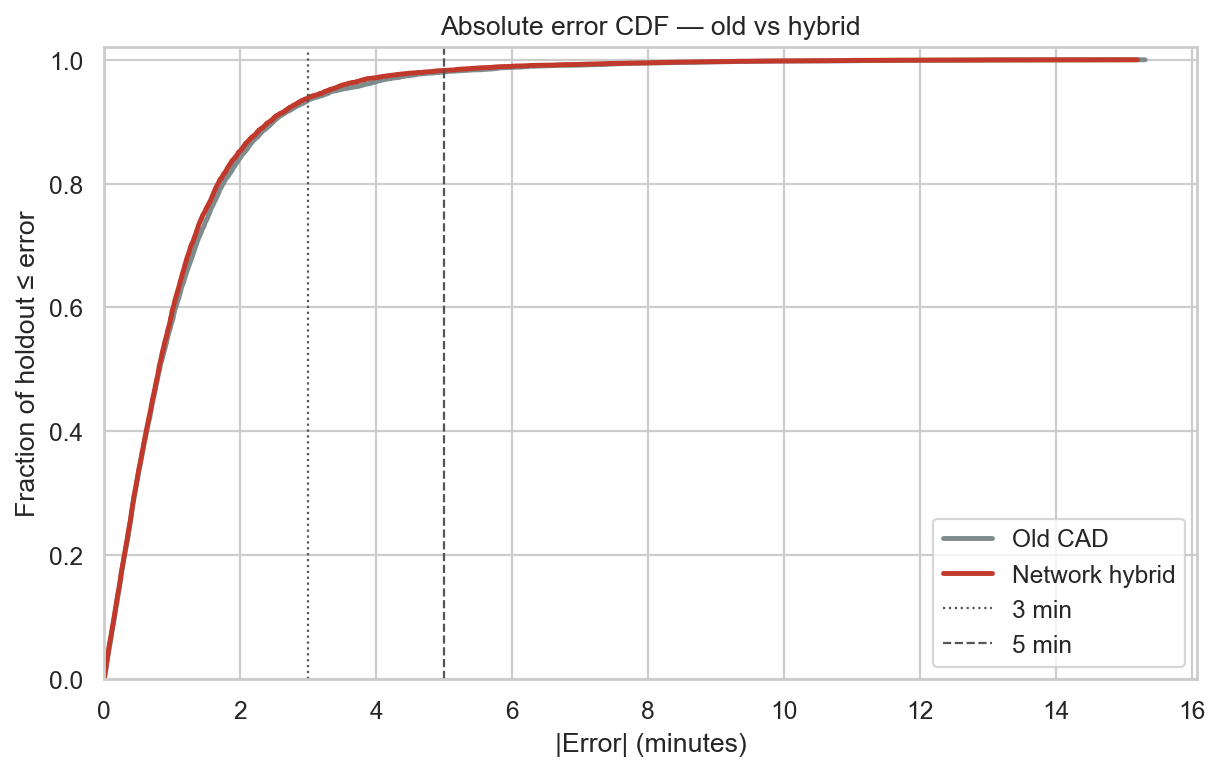
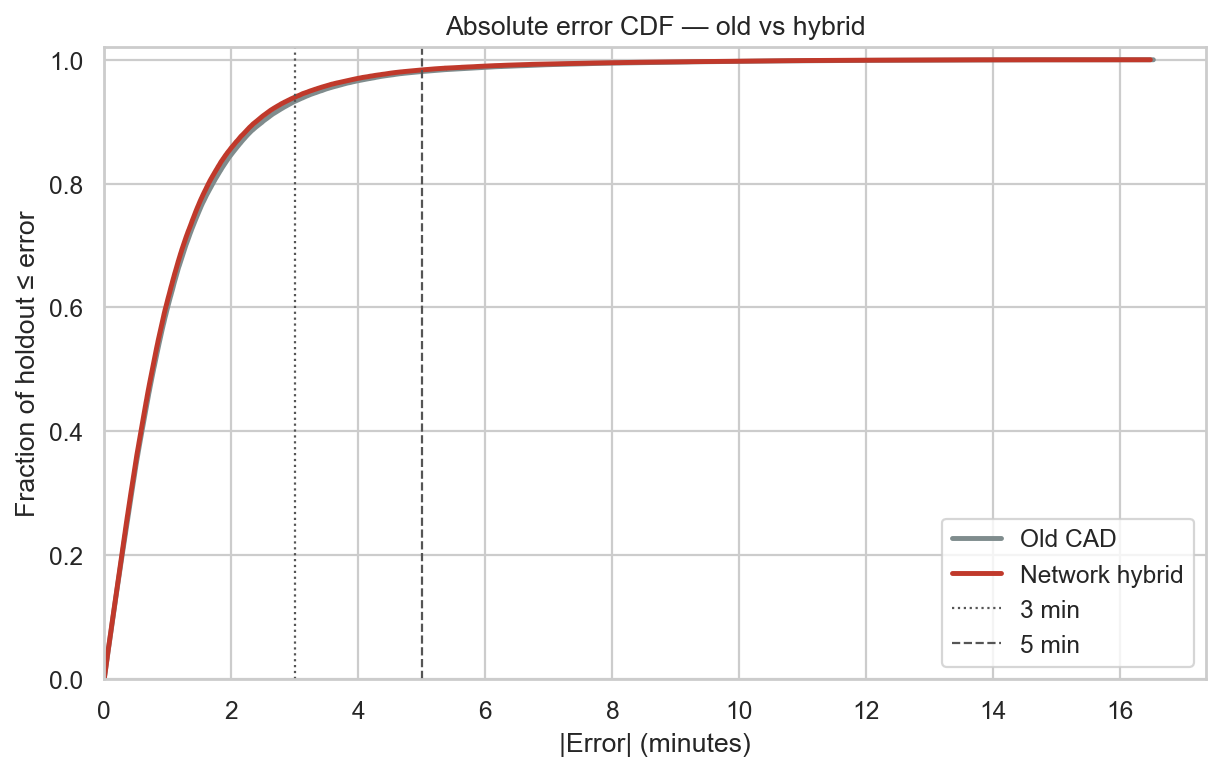
fixing images

diff --git a/scripts/train_travel_time_hybrid.py b/scripts/train_travel_time_hybrid.py
@@ -206,7 +206,10 @@ def main():
     p.add_argument("--data", type=Path, default=ROOT / "data" / "processed" / "travel_time_network.parquet")
     p.add_argument("--out-dir", type=Path, default=ROOT / "data" / "processed" / "models")
     p.add_argument("--figures", type=Path, default=ROOT / "data" / "figures" / "model_eval_hybrid")
-    p.add_argument("--test-frac", type=float, default=0.2)
+    p.add_argument("--test-frac", type=float, default=0.2, help="Used only when --train-end/--test-start unset")
+    p.add_argument("--train-end", type=str, default=None, help="ISO cutoff; rows before this are train/valid")
+    p.add_argument("--test-start", type=str, default=None, help="ISO; rows on/after this are test")
+    p.add_argument("--valid-start", type=str, default=None, help="ISO; default = 1 month before test-start")
     p.add_argument("--seed", type=int, default=42)
     args = p.parse_args()
 
@@ -215,12 +218,30 @@ def main():
     d = d[d["travel_seconds"].between(45, 1200)].reset_index(drop=True)
     d["dest_key"] = d["dest_lat"].round(5).astype(str) + "," + d["dest_lon"].round(5).astype(str)
     d["incident_datetime"] = pd.to_datetime(d["incident_datetime"], errors="coerce")
+    d = d.sort_values("incident_datetime").reset_index(drop=True)
 
-    train, test = chronological_split(d, test_frac=args.test_frac)
-    # tiny valid slice from end of train for early stopping
-    val_n = max(500, int(0.1 * len(train)))
-    valid = train.iloc[-val_n:].reset_index(drop=True)
-    train_fit = train.iloc[:-val_n].reset_index(drop=True)
+    if args.train_end and args.test_start:
+        train_end = pd.Timestamp(args.train_end)
+        test_start = pd.Timestamp(args.test_start)
+        valid_start = pd.Timestamp(args.valid_start) if args.valid_start else (test_start - pd.DateOffset(months=1))
+        train_fit = d[d["incident_datetime"] < valid_start].reset_index(drop=True)
+        valid = d[(d["incident_datetime"] >= valid_start) & (d["incident_datetime"] < test_start)].reset_index(drop=True)
+        test = d[d["incident_datetime"] >= test_start].reset_index(drop=True)
+        if len(valid) < 500:
+            # fall back: last 10% of pre-test as valid
+            pre = d[d["incident_datetime"] < test_start].reset_index(drop=True)
+            val_n = max(500, int(0.1 * len(pre)))
+            train_fit = pre.iloc[:-val_n].reset_index(drop=True)
+            valid = pre.iloc[-val_n:].reset_index(drop=True)
+        print(
+            f"time split: train_fit {len(train_fit):,} | valid {len(valid):,} | "
+            f"test {len(test):,} (from {args.test_start})"
+        )
+    else:
+        train, test = chronological_split(d, test_frac=args.test_frac)
+        val_n = max(500, int(0.1 * len(train)))
+        valid = train.iloc[-val_n:].reset_index(drop=True)
+        train_fit = train.iloc[:-val_n].reset_index(drop=True)
 
     train_p, (valid_p, test_p) = add_priors(train_fit, [valid, test], PRIOR_KEYS)
     # Rebuild priors on full train (fit+valid) for final bag, apply to test

diff --git a/scripts/compare_hybrid_to_cad.py b/scripts/compare_hybrid_to_cad.py
@@ -273,6 +273,9 @@ def main():
     p.add_argument("--data", type=Path, default=ROOT / "data" / "processed" / "travel_time_network.parquet")
     p.add_argument("--out-dir", type=Path, default=ROOT / "data" / "figures" / "model_eval_comparison")
     p.add_argument("--test-frac", type=float, default=0.2)
+    p.add_argument("--train-end", type=str, default=None)
+    p.add_argument("--test-start", type=str, default=None)
+    p.add_argument("--valid-start", type=str, default=None)
     p.add_argument("--seed", type=int, default=42)
     args = p.parse_args()
 
@@ -281,11 +284,25 @@ def main():
     d = d[d["travel_seconds"].between(45, 1200)].reset_index(drop=True)
     d["dest_key"] = d["dest_lat"].round(5).astype(str) + "," + d["dest_lon"].round(5).astype(str)
     d["incident_datetime"] = pd.to_datetime(d["incident_datetime"], errors="coerce")
+    d = d.sort_values("incident_datetime").reset_index(drop=True)
 
-    train, test = chronological_split(d, test_frac=args.test_frac)
-    val_n = max(500, int(0.1 * len(train)))
-    valid = train.iloc[-val_n:].reset_index(drop=True)
-    train_fit = train.iloc[:-val_n].reset_index(drop=True)
+    if args.train_end and args.test_start:
+        test_start = pd.Timestamp(args.test_start)
+        valid_start = pd.Timestamp(args.valid_start) if args.valid_start else (test_start - pd.DateOffset(months=1))
+        train_fit = d[d["incident_datetime"] < valid_start].reset_index(drop=True)
+        valid = d[(d["incident_datetime"] >= valid_start) & (d["incident_datetime"] < test_start)].reset_index(drop=True)
+        test = d[d["incident_datetime"] >= test_start].reset_index(drop=True)
+        if len(valid) < 500:
+            pre = d[d["incident_datetime"] < test_start].reset_index(drop=True)
+            val_n = max(500, int(0.1 * len(pre)))
+            train_fit = pre.iloc[:-val_n].reset_index(drop=True)
+            valid = pre.iloc[-val_n:].reset_index(drop=True)
+        print(f"time split: train_fit {len(train_fit):,} | valid {len(valid):,} | test {len(test):,}")
+    else:
+        train, test = chronological_split(d, test_frac=args.test_frac)
+        val_n = max(500, int(0.1 * len(train)))
+        valid = train.iloc[-val_n:].reset_index(drop=True)
+        train_fit = train.iloc[:-val_n].reset_index(drop=True)
     full_train = pd.concat([train_fit, valid], ignore_index=True)
 
     # --- Old CAD-style model ---

diff --git a/src/emvro/opendata.py b/src/emvro/opendata.py
@@ -195,7 +195,7 @@ def download_dataset(
     if key in incident_keys:
         order = f"{dt_col} ASC" if (start and end) else f"{dt_col} DESC"
 
-    pbar = tqdm(total=min(target, 50_000) if limit else None, desc=f"download:{key}", unit="row")
+    pbar = tqdm(total=target if limit else None, desc=f"download:{key}", unit="row")
     while len(rows) < target:
         batch_n = min(page_size, target - len(rows))
         batch = sodaclient_get(
